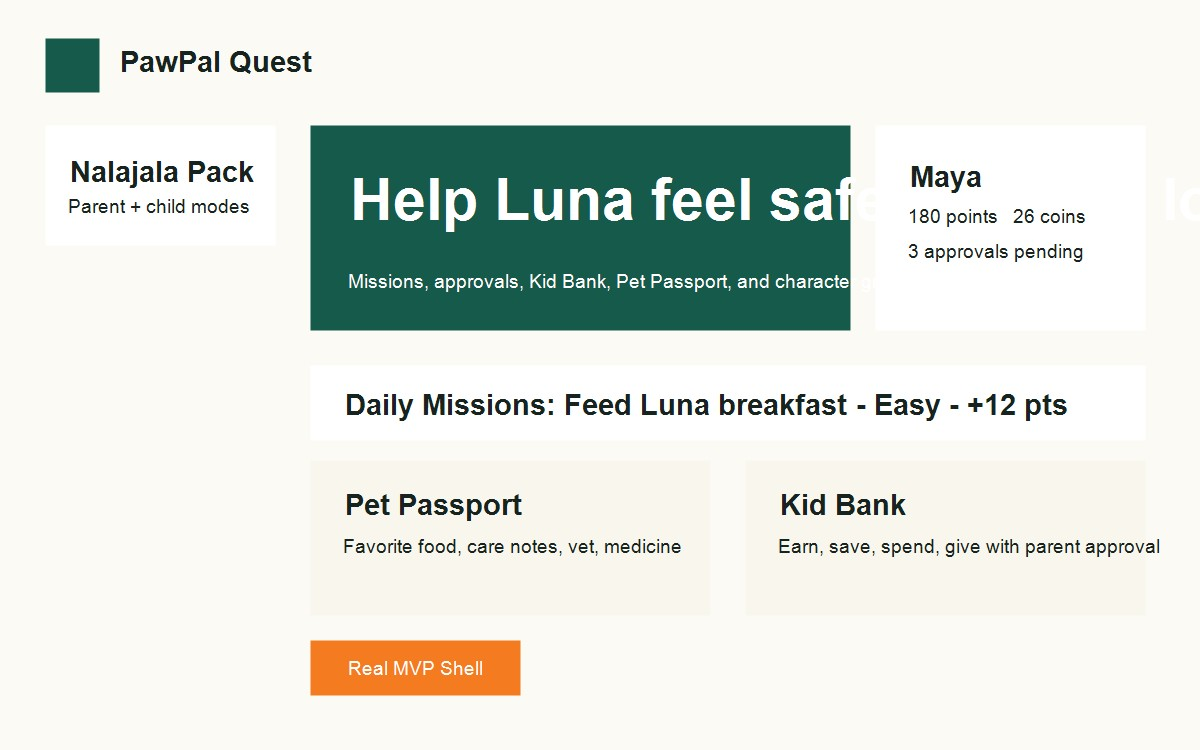
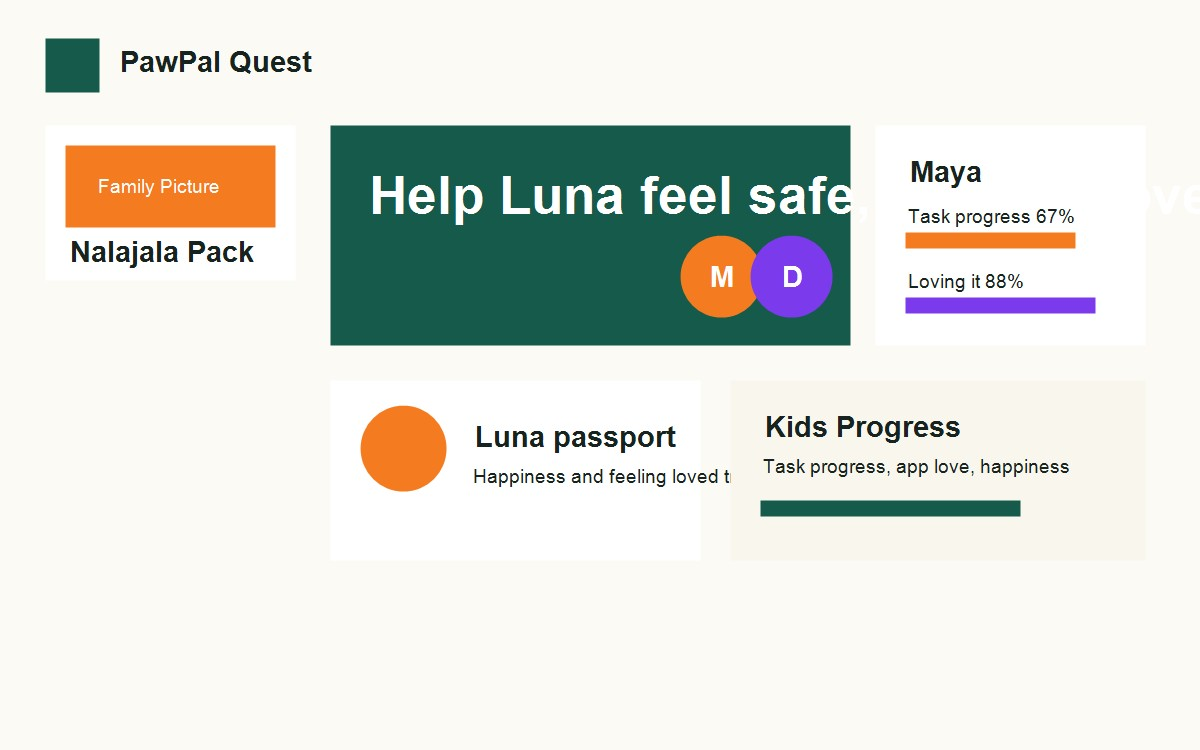
Add family visuals and happiness tracking

diff --git a/app/components/PawPalApp.tsx b/app/components/PawPalApp.tsx
@@ -92,6 +92,22 @@ const starterTransactions: BankTransaction[] = [
   { id: "tx-2", childId: "leo", category: "give", amount: 2, description: "Donation jar request", status: "pending" },
 ];
 
+const childLooks: Record<string, { initial: string; colors: string; joy: number; love: number }> = {
+  maya: { initial: "M", colors: "from-[#ffcf70] via-[#ff8a65] to-[#7c3aed]", joy: 92, love: 88 },
+  leo: { initial: "L", colors: "from-[#79d6ff] via-[#4ade80] to-[#2563eb]", joy: 78, love: 84 },
+};
+
+const petLooks: Record<string, { face: string; colors: string; happiness: number; loved: number }> = {
+  luna: { face: "D", colors: "from-[#fbbf24] via-[#f97316] to-[#7c2d12]", happiness: 94, loved: 91 },
+  mochi: { face: "G", colors: "from-[#bef264] via-[#5eead4] to-[#0f766e]", happiness: 83, loved: 89 },
+};
+
+const familyStats = [
+  ["Family joy", 88, "#f47b20"],
+  ["Pet happiness", 91, "#0f766e"],
+  ["Kids loving it", 86, "#7c3aed"],
+];
+
 export function PawPalApp() {
   const [role, setRole] = useState<Role>("parent");
   const [activeTab, setActiveTab] = useState("missions");
@@ -112,6 +128,9 @@ export function PawPalApp() {
 
   const activeChild = children.find((child) => child.id === activeChildId) ?? children[0];
   const activePet = pets[0];
+  const approvedMissionCount = missions.filter((mission) => mission.status === "approved").length;
+  const completedMissionCount = missions.filter((mission) => mission.completedBy).length;
+  const taskProgress = Math.round((completedMissionCount / Math.max(1, missions.length)) * 100);
 
   const pendingApprovals = useMemo(
     () => [
@@ -258,10 +277,15 @@ export function PawPalApp() {
 
       <section className="mx-auto grid max-w-7xl gap-5 px-4 py-5 sm:px-6 lg:grid-cols-[280px_1fr]">
         <aside className="space-y-4">
-          <div className="rounded-lg border border-[#ded8c7] bg-white p-4">
-            <p className="text-xs font-black uppercase tracking-[0.16em] text-[#7a4b12]">Family</p>
-            <h2 className="mt-2 text-2xl font-black">Nalajala Pack</h2>
-            <p className="mt-2 text-sm font-semibold text-[#5f6a65]">
+          <div className="overflow-hidden rounded-lg border border-[#ded8c7] bg-white">
+            <div className="relative h-36 bg-[linear-gradient(135deg,#165a4b,#f47b20_50%,#7c3aed)]">
+              <div className="absolute inset-0 bg-[radial-gradient(circle_at_25%_25%,rgba(255,255,255,0.55),transparent_22%),radial-gradient(circle_at_70%_35%,rgba(255,255,255,0.35),transparent_18%)]" />
+              <div className="absolute bottom-4 left-4 right-4 rounded-lg bg-white/88 p-3 shadow-sm backdrop-blur">
+                <p className="text-xs font-black uppercase tracking-[0.16em] text-[#7a4b12]">Family</p>
+                <h2 className="text-2xl font-black">Nalajala Pack</h2>
+              </div>
+            </div>
+            <p className="p-4 text-sm font-semibold text-[#5f6a65]">
               {isSupabaseConfigured ? "Supabase connected" : "Demo mode until Supabase keys are added"}
             </p>
           </div>
@@ -284,7 +308,7 @@ export function PawPalApp() {
           )}
 
           <nav className="grid gap-2">
-            {["missions", "passport", "bank", "approvals", "setup", "growth"].map((tab) => (
+            {["missions", "pets", "bank", "approvals", "setup", "growth"].map((tab) => (
               <button
                 key={tab}
                 onClick={() => setActiveTab(tab)}
@@ -299,7 +323,14 @@ export function PawPalApp() {
         </aside>
 
         <div className="space-y-5">
-          <Hero child={activeChild} pet={activePet} pendingCount={pendingApprovals.length} />
+          <Hero
+            child={activeChild}
+            pet={activePet}
+            pendingCount={pendingApprovals.length}
+            taskProgress={taskProgress}
+            approvedMissionCount={approvedMissionCount}
+          />
+          <FamilyPhotoStrip childProfiles={children} pets={pets} />
           {activeTab === "missions" && (
             <MissionsPanel
               activeChild={activeChild}
@@ -310,7 +341,7 @@ export function PawPalApp() {
               completeMission={completeMission}
             />
           )}
-          {activeTab === "passport" && <PassportPanel pets={pets} />}
+          {activeTab === "pets" && <PassportPanel pets={pets} />}
           {activeTab === "bank" && (
             <BankPanel child={activeChild} transactions={transactions} goals={goals} requestBankMove={requestBankMove} />
           )}
@@ -348,23 +379,101 @@ export function PawPalApp() {
   );
 }
 
-function Hero({ child, pet, pendingCount }: { child?: Child; pet?: Pet; pendingCount: number }) {
+function Hero({
+  child,
+  pet,
+  pendingCount,
+  taskProgress,
+  approvedMissionCount,
+}: {
+  child?: Child;
+  pet?: Pet;
+  pendingCount: number;
+  taskProgress: number;
+  approvedMissionCount: number;
+}) {
+  const childLook = getChildLook(child?.id);
+  const petLook = getPetLook(pet?.id);
   return (
     <section className="grid gap-4 lg:grid-cols-[1.15fr_0.85fr]">
-      <div className="rounded-lg bg-[#165a4b] p-5 text-white">
-        <p className="text-xs font-black uppercase tracking-[0.18em] text-[#b7e7d5]">Today&apos;s quest</p>
-        <h2 className="mt-3 text-4xl font-black">Help {pet?.name ?? "your pet"} feel safe, fed, and loved.</h2>
-        <p className="mt-4 max-w-2xl text-sm font-semibold leading-6 text-[#d8f5e8]">
-          Aarush&apos;s levels power the missions. Sahasra&apos;s secret code, passport, goals, and memory moments shape the family experience.
-        </p>
+      <div className="overflow-hidden rounded-lg bg-[#165a4b] text-white">
+        <div className="grid gap-5 p-5 md:grid-cols-[1fr_auto] md:items-center">
+          <div>
+            <p className="text-xs font-black uppercase tracking-[0.18em] text-[#b7e7d5]">Today&apos;s quest</p>
+            <h2 className="mt-3 text-4xl font-black">Help {pet?.name ?? "your pet"} feel safe, fed, and loved.</h2>
+            <p className="mt-4 max-w-2xl text-sm font-semibold leading-6 text-[#d8f5e8]">
+              The app now tracks task progress, pet happiness, and how much kids are enjoying the habit.
+            </p>
+          </div>
+          <div className="flex items-center justify-center gap-4">
+            <ProfilePhoto label={child?.name ?? "Kid"} initial={childLook.initial} colors={childLook.colors} size="lg" />
+            <ProfilePhoto label={pet?.name ?? "Pet"} initial={petLook.face} colors={petLook.colors} size="lg" />
+          </div>
+        </div>
+        <div className="grid gap-3 border-t border-white/15 bg-white/8 p-5 sm:grid-cols-3">
+          {familyStats.map(([label, value, color]) => (
+            <Meter key={label} label={String(label)} value={Number(value)} color={String(color)} dark />
+          ))}
+        </div>
       </div>
       <div className="rounded-lg border border-[#ded8c7] bg-white p-5">
-        <p className="text-xs font-black uppercase tracking-[0.18em] text-[#f47b20]">Active child</p>
-        <h3 className="mt-2 text-3xl font-black">{child?.name ?? "Add a child"}</h3>
+        <div className="flex items-center gap-4">
+          <ProfilePhoto label={child?.name ?? "Kid"} initial={childLook.initial} colors={childLook.colors} />
+          <div>
+            <p className="text-xs font-black uppercase tracking-[0.18em] text-[#f47b20]">Active child</p>
+            <h3 className="text-3xl font-black">{child?.name ?? "Add a child"}</h3>
+          </div>
+        </div>
+        <div className="mt-5">
+          <div className="mb-2 flex justify-between text-sm font-black">
+            <span>Task progress</span>
+            <span>{taskProgress}%</span>
+          </div>
+          <div className="h-4 rounded-full bg-[#f0ead8]">
+            <div className="h-4 rounded-full bg-[#f47b20]" style={{ width: `${taskProgress}%` }} />
+          </div>
+        </div>
         <div className="mt-4 grid grid-cols-3 gap-2 text-center text-xs font-black">
           <span className="rounded-lg bg-[#ecf7f0] p-3">{child?.points ?? 0}<br />points</span>
-          <span className="rounded-lg bg-[#fff4d8] p-3">{child?.coins ?? 0}<br />coins</span>
+          <span className="rounded-lg bg-[#fff4d8] p-3">{approvedMissionCount}<br />approved</span>
           <span className="rounded-lg bg-[#f0edff] p-3">{pendingCount}<br />pending</span>
+        </div>
+        <div className="mt-4 grid gap-3">
+          <Meter label="Loving the app" value={childLook.love} color="#7c3aed" />
+          <Meter label="Happiness today" value={childLook.joy} color="#0f766e" />
+        </div>
+      </div>
+    </section>
+  );
+}
+
+function FamilyPhotoStrip({ childProfiles, pets }: { childProfiles: Child[]; pets: Pet[] }) {
+  return (
+    <section className="rounded-lg border border-[#ded8c7] bg-white p-4">
+      <div className="grid gap-4 lg:grid-cols-[1.1fr_0.9fr]">
+        <div className="relative min-h-48 overflow-hidden rounded-lg bg-[linear-gradient(135deg,#ffe6a7,#b8f7d4_45%,#d8ccff)] p-5">
+          <div className="absolute inset-0 bg-[radial-gradient(circle_at_18%_18%,rgba(255,255,255,0.75),transparent_18%),radial-gradient(circle_at_82%_18%,rgba(255,255,255,0.55),transparent_16%),radial-gradient(circle_at_50%_78%,rgba(255,255,255,0.45),transparent_24%)]" />
+          <div className="relative">
+            <p className="text-xs font-black uppercase tracking-[0.18em] text-[#7a4b12]">Family picture</p>
+            <h2 className="mt-2 max-w-md text-3xl font-black">A bright home base for everyone caring together.</h2>
+          </div>
+          <div className="absolute bottom-5 left-5 flex -space-x-3">
+            {childProfiles.map((child) => {
+              const look = getChildLook(child.id);
+              return <ProfilePhoto key={child.id} label={child.name} initial={look.initial} colors={look.colors} />;
+            })}
+            {pets.map((pet) => {
+              const look = getPetLook(pet.id);
+              return <ProfilePhoto key={pet.id} label={pet.name} initial={look.face} colors={look.colors} />;
+            })}
+          </div>
+        </div>
+        <div className="grid gap-3 sm:grid-cols-3 lg:grid-cols-1">
+          {familyStats.map(([label, value, color]) => (
+            <div key={label} className="rounded-lg bg-[#f8f6ed] p-4">
+              <Meter label={String(label)} value={Number(value)} color={String(color)} />
+            </div>
+          ))}
         </div>
       </div>
     </section>
@@ -401,7 +510,10 @@ function MissionsPanel(props: {
               <div>
                 <div className="flex flex-wrap gap-2">
                   <span className="rounded-full bg-white px-3 py-1 text-xs font-black">{levelLabels[mission.difficulty]}</span>
-                  <span className="rounded-full bg-[#e7f4ef] px-3 py-1 text-xs font-black">{pet?.name ?? "Family"}</span>
+                  <span className="inline-flex items-center gap-2 rounded-full bg-[#e7f4ef] py-1 pl-1 pr-3 text-xs font-black">
+                    <ProfilePhoto label={pet?.name ?? "Family"} initial={getPetLook(pet?.id).face} colors={getPetLook(pet?.id).colors} size="xs" />
+                    {pet?.name ?? "Family"}
+                  </span>
                   <span className="rounded-full bg-[#fff4d8] px-3 py-1 text-xs font-black">+{mission.points} pts</span>
                 </div>
                 <h3 className="mt-3 text-xl font-black">{mission.title}</h3>
@@ -427,9 +539,18 @@ function PassportPanel({ pets }: { pets: Pet[] }) {
     <section className="grid gap-4 md:grid-cols-2">
       {pets.map((pet) => (
         <article key={pet.id} className="rounded-lg border border-[#ded8c7] bg-white p-5">
-          <p className="text-xs font-black uppercase tracking-[0.18em] text-[#7a4b12]">Pet Passport</p>
-          <h2 className="mt-2 text-3xl font-black">{pet.name}</h2>
-          <p className="text-sm font-black text-[#0f766e]">{pet.species}</p>
+          <div className="flex items-center gap-4">
+            <ProfilePhoto label={pet.name} initial={getPetLook(pet.id).face} colors={getPetLook(pet.id).colors} size="lg" />
+            <div>
+              <p className="text-xs font-black uppercase tracking-[0.18em] text-[#7a4b12]">{pet.name}&apos;s passport</p>
+              <h2 className="text-3xl font-black">{pet.name}</h2>
+              <p className="text-sm font-black text-[#0f766e]">{pet.species}</p>
+            </div>
+          </div>
+          <div className="mt-5 grid gap-3">
+            <Meter label={`${pet.name} happiness`} value={getPetLook(pet.id).happiness} color="#f47b20" />
+            <Meter label={`${pet.name} feeling loved`} value={getPetLook(pet.id).loved} color="#0f766e" />
+          </div>
           <dl className="mt-5 grid gap-3 text-sm">
             <div className="rounded-lg bg-[#f8f6ed] p-3"><dt className="font-black">Favorite food</dt><dd>{pet.favoriteFood}</dd></div>
             <div className="rounded-lg bg-[#f8f6ed] p-3"><dt className="font-black">Care notes</dt><dd>{pet.careNotes}</dd></div>
@@ -556,8 +677,16 @@ function GrowthPanel(props: {
         {props.childProfiles.map((child) => (
           <div key={child.id} className="rounded-lg bg-[#f8f6ed] p-4">
             <div className="flex items-center justify-between">
-              <h3 className="text-xl font-black">{child.name}</h3>
+              <div className="flex items-center gap-3">
+                <ProfilePhoto label={child.name} initial={getChildLook(child.id).initial} colors={getChildLook(child.id).colors} />
+                <h3 className="text-xl font-black">{child.name}</h3>
+              </div>
               <span className="rounded-full bg-white px-3 py-1 text-xs font-black">{levelLabels[child.level]}</span>
+            </div>
+            <div className="mt-4 grid gap-3">
+              <Meter label="Task progress" value={Math.min(100, Math.round((child.points / 220) * 100))} color="#f47b20" />
+              <Meter label="Loving it" value={getChildLook(child.id).love} color="#7c3aed" />
+              <Meter label="Happiness" value={getChildLook(child.id).joy} color="#0f766e" />
             </div>
             <div className="mt-4 grid grid-cols-3 gap-2 text-center text-xs font-black">
               <span className="rounded-lg bg-white p-3">{child.points}<br />points</span>
@@ -579,4 +708,49 @@ function GrowthPanel(props: {
       </div>
     </section>
   );
+}
+
+function ProfilePhoto({
+  label,
+  initial,
+  colors,
+  size = "md",
+}: {
+  label: string;
+  initial: string;
+  colors: string;
+  size?: "xs" | "md" | "lg";
+}) {
+  const sizeClass = size === "lg" ? "size-24 text-4xl" : size === "xs" ? "size-7 text-xs" : "size-16 text-2xl";
+  return (
+    <div
+      aria-label={`${label} photo placeholder`}
+      className={`${sizeClass} grid shrink-0 place-items-center rounded-full border-4 border-white bg-gradient-to-br ${colors} font-black text-white shadow-md`}
+      title={`${label} photo`}
+    >
+      {initial}
+    </div>
+  );
+}
+
+function Meter({ label, value, color, dark = false }: { label: string; value: number; color: string; dark?: boolean }) {
+  return (
+    <div>
+      <div className={`mb-2 flex justify-between text-xs font-black ${dark ? "text-white" : "text-[#25352f]"}`}>
+        <span>{label}</span>
+        <span>{value}%</span>
+      </div>
+      <div className={`h-3 rounded-full ${dark ? "bg-white/20" : "bg-[#ece5d2]"}`}>
+        <div className="h-3 rounded-full" style={{ width: `${Math.min(100, value)}%`, backgroundColor: color }} />
+      </div>
+    </div>
+  );
+}
+
+function getChildLook(childId?: string) {
+  return childLooks[childId ?? ""] ?? { initial: "K", colors: "from-[#ffd166] via-[#f47b20] to-[#165a4b]", joy: 80, love: 80 };
+}
+
+function getPetLook(petId?: string) {
+  return petLooks[petId ?? ""] ?? { face: "P", colors: "from-[#ffd166] via-[#f47b20] to-[#165a4b]", happiness: 80, loved: 80 };
 }
